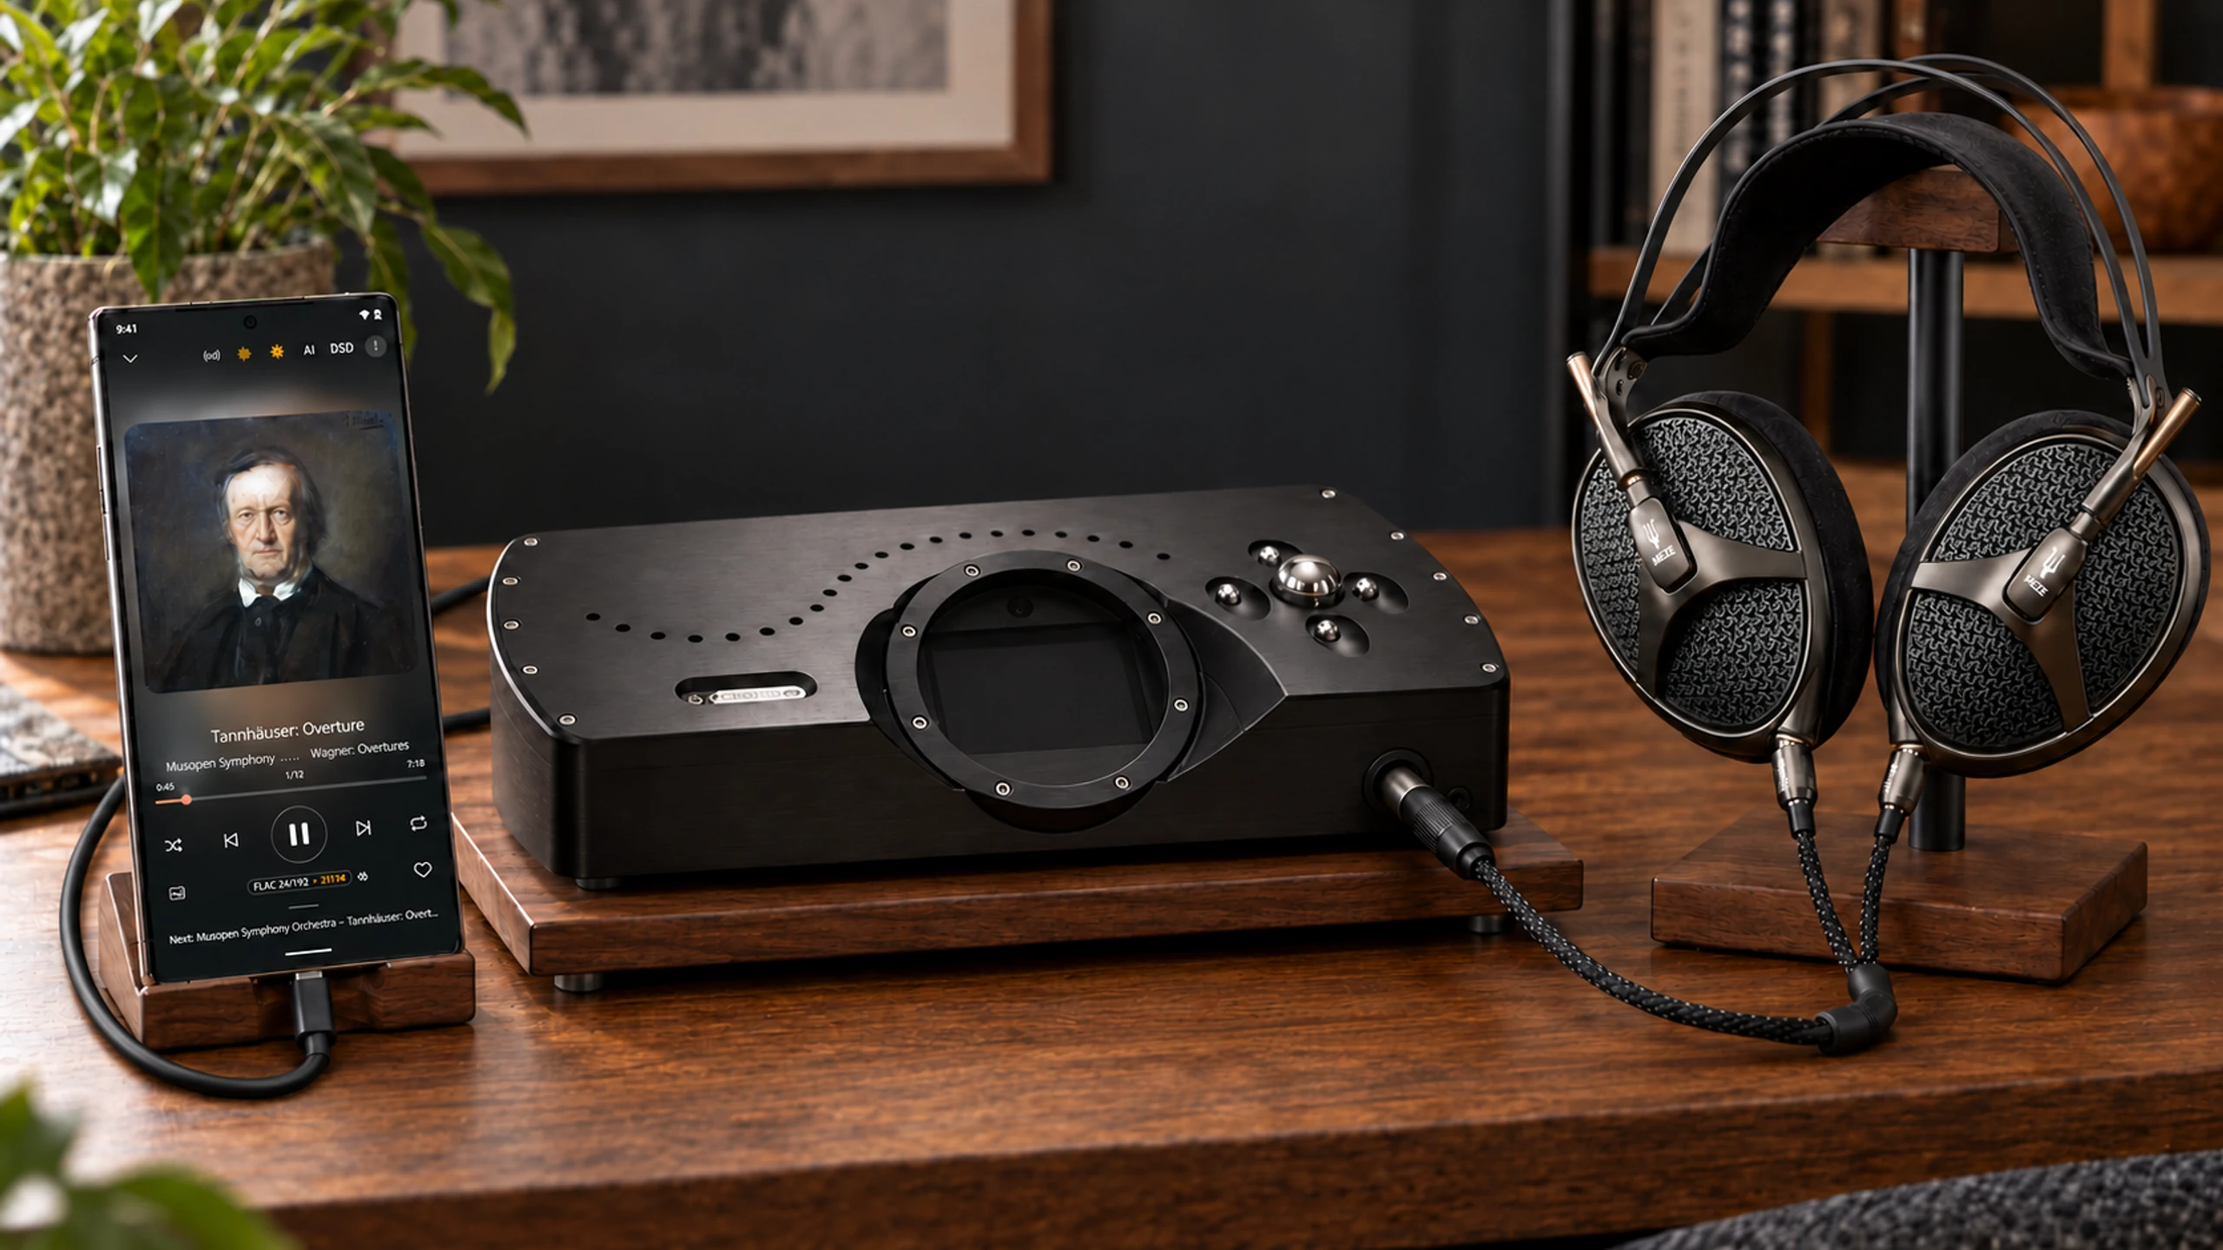
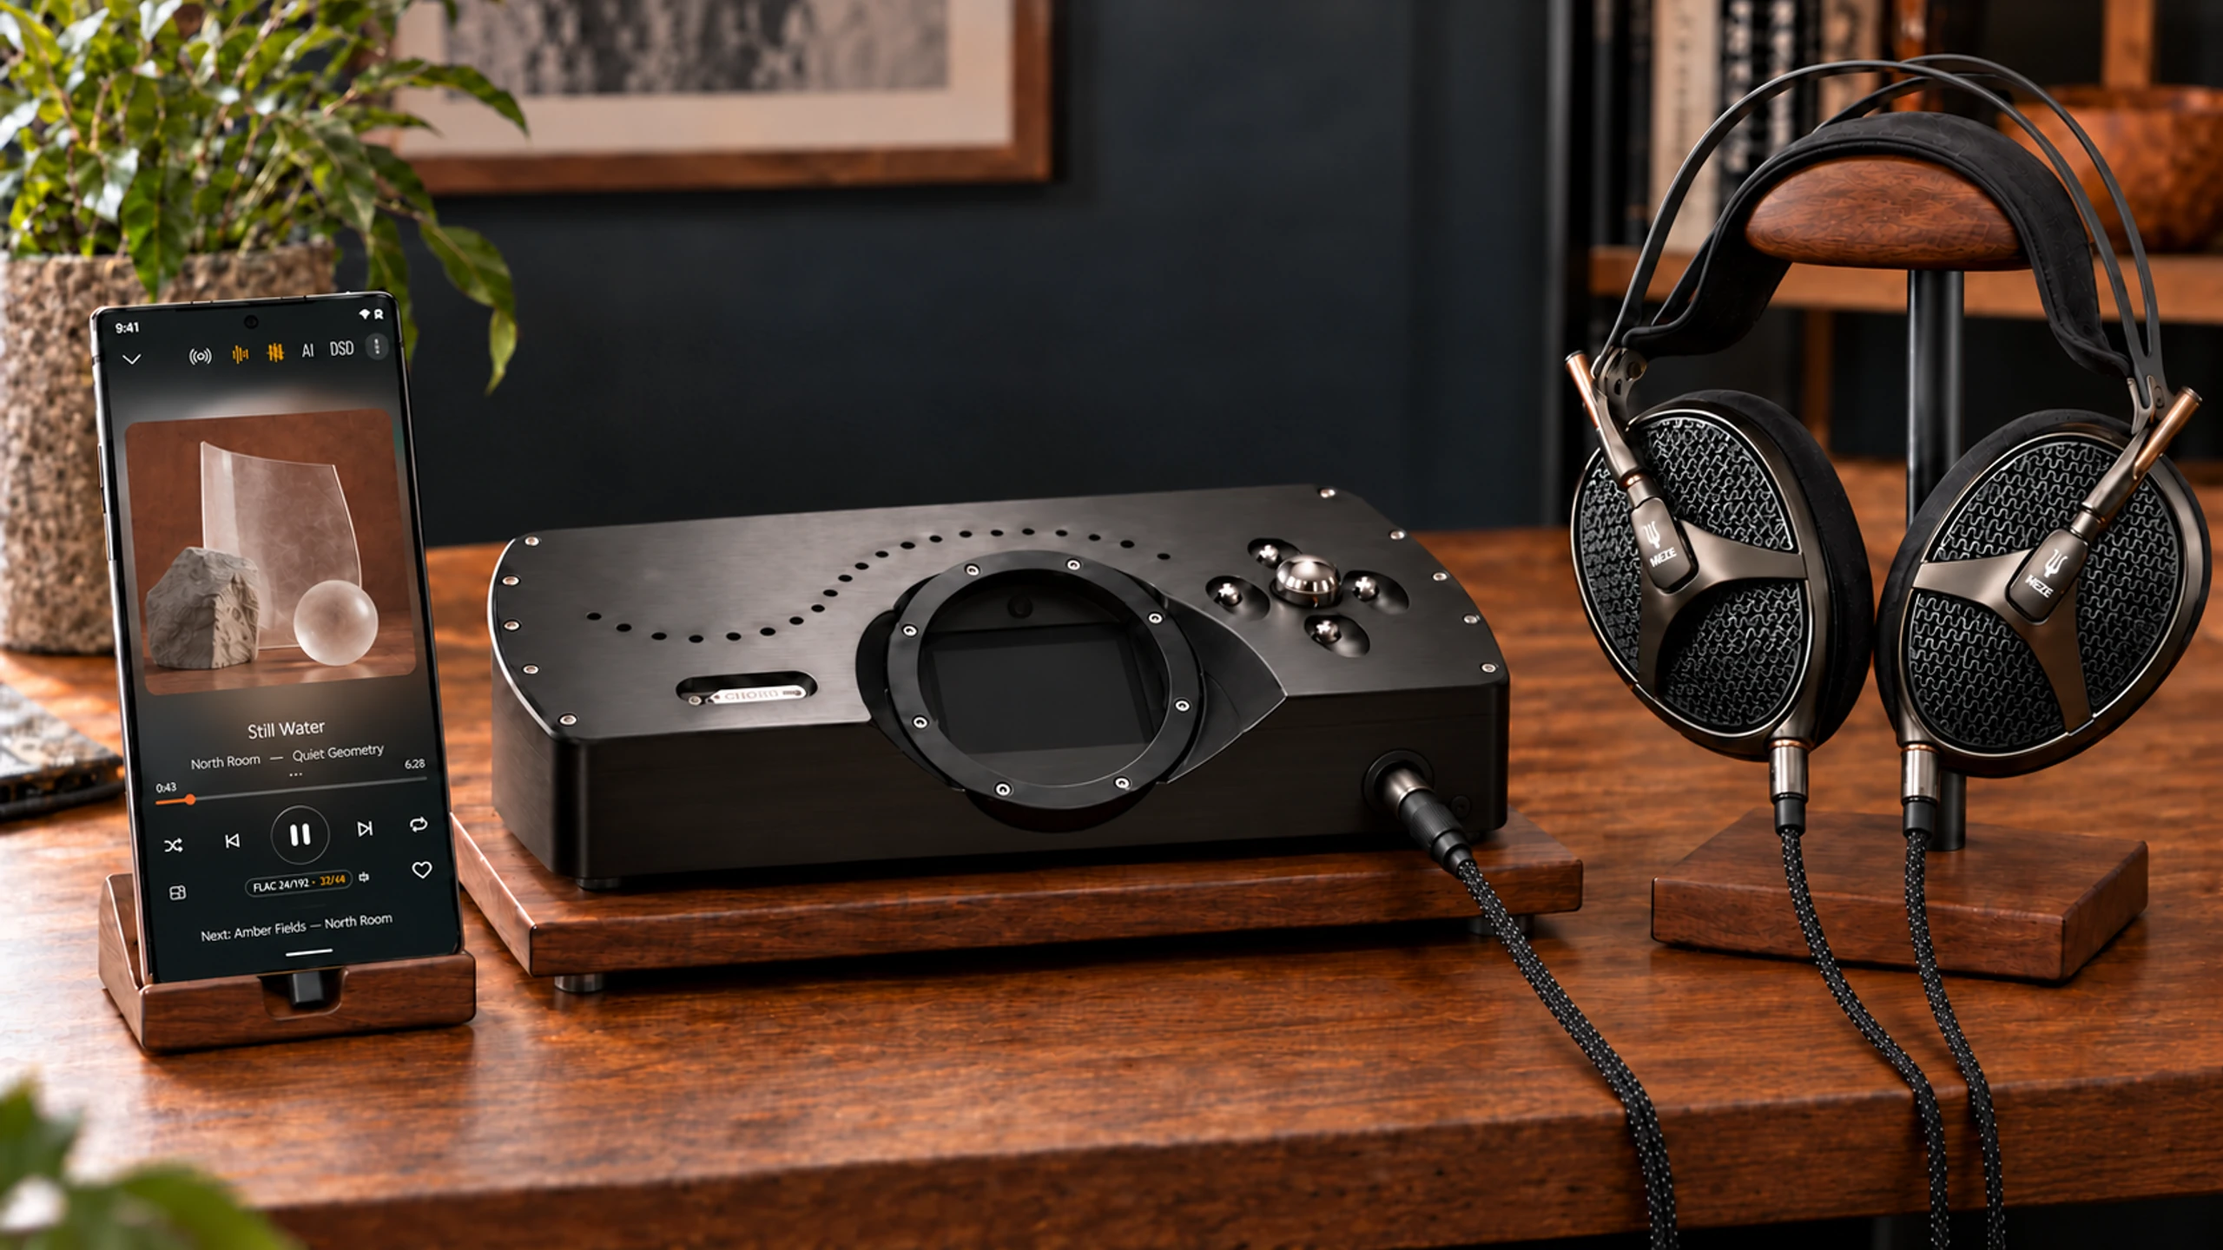
feat(images): new home statement plate

diff --git a/docs/landing-imagery.md b/docs/landing-imagery.md
@@ -8,24 +8,18 @@
 
 `home-privacy.webp` отдельно утверждён как эталон личной сцены прослушивания. [Правила и промпт этого типа фотографий](listening-photography.md) фиксируют свет, аудиотематику, материалы и использование настоящего экрана приложения. Текущий кадр с библиотекой сохраняется как есть.
 
-Для `home-statement` используются [единые референсы оборудования](feature-art-prompts.md#единые-референсы-оборудования): адаптированный DAC с деревянными боковинами без R2R и других надписей, открытые наушники с деревянными вставками без логотипов, телефон формы S25 Ultra без брендинга. Экран — `public/screens/now-playing-hero.webp`, полноэкранный плеер. Аппаратные референсы сохранены в `docs/references/` для следующих материалов.
+Для `home-statement`: Chord DAVE Black лицевой стороной к камере, настоящая конструкция Meze Elite Tungsten без деревянных модификаций, телефон формы S25 Ultra. Интерфейс и верхние иконки используют `public/screens/now-playing-hero.webp` как референс полноэкранного плеера. Обложка — оригинальный абстрактный натюрморт со стеклом и камнем, не копия существующего релиза; демонстрационные названия: Still Water / North Room / Quiet Geometry. Короткий USB-коннектор скрыт в канале подставки телефона; трасса к заднему USB-B DAVE не показывается. Наушники опираются подвесным ремнём на широкое деревянное седло стойки.
 
 | Блок | Файл | Идея |
 | --- | --- | --- |
-| Many phones quietly rewrite your music… | `public/img/home-statement.webp` | Прямое физическое подключение телефона по USB к DAC с деревянными боковинами и проводным наушникам. |
+| Many phones quietly rewrite your music… | `public/img/home-statement.webp` | Домашняя система: S25 Ultra, Chord DAVE Black и Meze Elite Tungsten на деревянных подставках. |
 | Your listening never leaves the phone. | `public/img/home-privacy.webp` | Личная локальная библиотека на телефоне рядом с наушниками. Экран `public/screens/library.webp` использован как референс интерфейса. |
 | Переход от цен к финальному CTA | `public/img/home-interstitial-3.webp` | Тихий графитовый кадр с тонкой линией и физическим переходом к белой бумаге. |
 
-Первые две фотографии экспортированы в WebP, 2560×1440, качество 80. В секциях используется кроп 16:9 на мобильном и 2:1 на широком экране. Иллюстрации передают контекст использования, а не доказывают измерениями неизменность сигнала или приватность.
+Фотографии экспортированы в WebP, 2560×1440 (`home-statement`: качество 90). Текущий исходник `home-statement` — 1672×941; экспорт 2560×1440 масштабирован и не добавляет исходных деталей. В секциях используется кроп 16:9 на мобильном и 2:1 на широком экране. Иллюстрации передают контекст использования, а не доказывают измерениями неизменность сигнала или приватность.
 
 Полные актуальные промпты и требования к кадрированию находятся в [design/SECTION-IMAGES.md](../design/SECTION-IMAGES.md). Исходники новых фотографий сохранены в `design/generated-plates/home-statement-raw.png` и `home-privacy-raw.png`. Генерация выполнена встроенным `image_gen`.
 
-## Удалённые разделители
-
-`home-interstitial-1` и `home-interstitial-2` убраны из `src/pages/_index.astro`: декоративные полосы добавляли высоту, не объясняя продукт. Тёмные и светлые секции теперь стыкуются напрямую. Старые файлы оставлены как архив; не возвращайте блоки автоматически по наличию изображения или исторического промпта.
-
-Лендинг проверяется на dev-маршруте `/preview/home`. Главная страница `/` остаётся текущей страницей-заглушкой.
-
 ## Проверка конструкции home-statement
 
-USB-кабель целиком виден между телефоном и фронтальным входом DAC; отдельный кабель соединяет фронтальный выход DAC с ближней чашкой наушников. Чашки имеют одинаковую зеркальную конструкцию, деревянные кольца и решётки. Передняя панель DAC упрощена; экран пустой, без выдуманных индикаторов.
+DAVE не разворачивать: передний 6,35-мм выход и два mini-XLR на чашах имеют длинные кабели, уходящие ниже края стола; разветвление скрыто за кадром. Видимого соединителя на столе нет. Оба штекера соосны гнёздам, кабели изгибаются только после разгрузочных хвостовиков. USB телефона не соединять с этим кабелем и не вставлять во фронтальную панель DAVE. USB-B находится сзади и скрыт выбранным ракурсом. Кабель телефона проходит под подставкой; большая петля перед телефоном не нужна. Ремень наушников касается деревянного седла без зазора; чаши свободно висят на одинаковых шарнирах. Экран DAVE пустой.

diff --git a/design/SECTION-IMAGES.md b/design/SECTION-IMAGES.md
@@ -152,25 +152,15 @@ pure black, #000000, crushed shadows, blue-black, violet cast, vignette, corner 
 
 ## 4. `home-statement` — Direct USB listening
 
-**Where** Contained photograph in the corresponding ivory landing section, below the supporting facts. Replaces the abstract metal-on-paper image.
-
-**Size** Generate wide 16:9; ship 2560×1440 WebP, quality 80. Display 16:9 on mobile and 2:1 from small tablet upward. Preserve the central subject and key connections in both crops. No text overlay.
+**Where** Photograph below the statement section. WebP 2560×1440, quality 90; 16:9 mobile, 2:1 wide. Raw generation 1672×941, scaled for export.
 
 **Prompt**
 
 ```text
-Create a new photorealistic editorial audio listening photograph, wide 16:9 composition, intended 2560x1440. INPUT ROLES: image 1 is a DAC hardware design reference only; image 2 is an open-back headphone construction reference only; image 3 is the EXACT REQUIRED full-screen music-player UI to display on the phone. Do not include the white catalog backgrounds, logos or lettering from the hardware reference images. Scene: quiet contemporary home listening desk of dark oiled walnut, soft diffused daylight from upper left, charcoal background gently out of focus, warm neutral materials with restrained contrast. Left: one modern unbranded phone with Samsung Galaxy S25 Ultra-inspired geometry: broad rectangular flat display, nearly square slightly rounded corners, thin straight graphite titanium-like sides, very thin even bezels and small centered punch-hole front camera. The PHONE DISPLAY MUST SHOW THE COMPLETE REAL FULL-SCREEN PLAYER FROM IMAGE 3, including its Wagner portrait album art, track title, seek bar, large pause button and bottom signal badge. Faithfully preserve this provided screenshot as screen content in perspective, not a generic player, no album grid or substitute UI, no black empty display. Center-right: a desktop DAC inspired by image 1, realistic substantial low rectangular chassis, satin dark graphite front with a wide completely blank dark smoked-glass display on the left, two dark rotary controls of different sizes on the upper right and one small selector below the display, practical headphone sockets below, accurately fitted walnut side panels and a modest walnut top-edge insert. Adapt the design so it is not an exact branded copy. Remove all branding, every R2R mark and R2R PRO inscription, all model numbers, all labels and all lettering on the wooden sides and top. Display is switched off: no illumination, level marks, bars, symbols, text or numbers. No gold trim. Far right: large realistic open-back headphones inspired by image 2, sculpted rounded-oval dark charcoal earcups with fine perforated mesh, a substantial outer suspension frame and separate leather suspension headband, dark cushions, discreet fitted WALNUT INSERTS in the outer frame and earcup perimeter. Remove Elite lettering and all emblems and logos. Do not turn them into ordinary closed-back round headphones. Exactly one fully visible continuous matte black USB cable joins the phone bottom USB-C port to a visible front USB-C input at lower left of the DAC. Both plugs and the entire U-shaped cable path are inside the frame. A separate single-sided braided headphone cable joins the DAC front headphone output to the near earcup; its entire unbranched path is also visible. Both earcups are turned outward enough to verify identical mirrored oval frames, the same continuous walnut rings, same three-spoke open grilles, equal cushions and matching yokes on one coherent suspension headband. Coherent actual wiring, no extra cables. All three objects complete and comfortably inside frame, key objects within middle 80 percent width and central 75 percent height, composed to tolerate a mild 2:1 crop. Moderate-size objects on a real desk, calm composition, realistic construction and scale. No people, no hands, no floating UI, no arrows, no symbols of AI, no sparkle, no glow, no neon, no sci-fi, no gold luxury ornament, no hardware branding or watermark. Screen UI text from image 3 is explicitly required; this is the only detailed text in the image.
+Photorealistic warm natural listening room, walnut desk, soft daylight, graphite background. Preserve frontal three-quarter Chord DAVE Black geometry and blank porthole screen, real Meze Elite Tungsten construction and matching cups, Galaxy S25 Ultra form using public/screens/now-playing-hero.webp for the player layout and exact toolbar icon references. Replace the portrait with original contemporary abstract glass-and-stone album artwork, not based on an existing release; demo metadata Still Water / North Room / Quiet Geometry. DAVE faces the camera; do not rotate it. Phone sits in walnut cradle: a discreet low-profile USB-C plug enters its bottom port and disappears into a real cable-routing channel beneath cradle, no prominent cable loop. Rear USB-B connection is occluded. Separate braided cable from DAVE front-right 6.35mm output drops below desk front edge; two thinner mini-XLR branches from both cups also drop below the edge. Y junction is hidden below desk, no visible inline connector. Seat both mini-XLR plugs fully coaxially in matching sockets; cable bends only below straight strain relief. Never join USB and headphone leads. Headphones rest naturally with leather suspension strap touching a broad convex walnut saddle, slight contact compression and shadow, metal arches above the strap, cups hanging symmetrically clear of the base. Quiet believable materials, no decorative gold glow, no captions, no watermark.
 ```
 
-**Check** Natural walnut and matte graphite, soft daylight, real hardware proportions and coherent cables. The image explains the listening context, not a measured technical result. No gold glow, generic security symbols or abstract metal blocks.
-
-**Source** Generated with the built-in image_gen tool. Raw: `design/generated-plates/home-statement-raw.png`. Final: `public/img/home-statement.webp`.
-
----
-
-**Hardware references** `docs/references/dac-hardware.png`, `docs/references/open-back-headphones.png`. Phone screen reference: `public/screens/now-playing-hero.webp`. Phone geometry: unbranded S25 Ultra. Final cleanup: graphite knob rings; remove all tiny hardware marks; preserve player UI text.
-
-**Physical consistency check** Trace both cables continuously between visible sockets. USB enters the front lower-left DAC input. One headphone lead enters the near earcup. Both earcups have matching mirrored frames, walnut rings, grilles, cushions and yokes. The redesigned DAC uses one coherent front panel and a completely blank dark display; no fabricated meter bars or readings.
+**Source** Built-in image_gen. Raw: `design/generated-plates/home-statement-raw.png`. Final: `public/img/home-statement.webp`. Follow [landing imagery rules](../docs/landing-imagery.md).
 
 ## 5. `home-features-backdrop`
 
